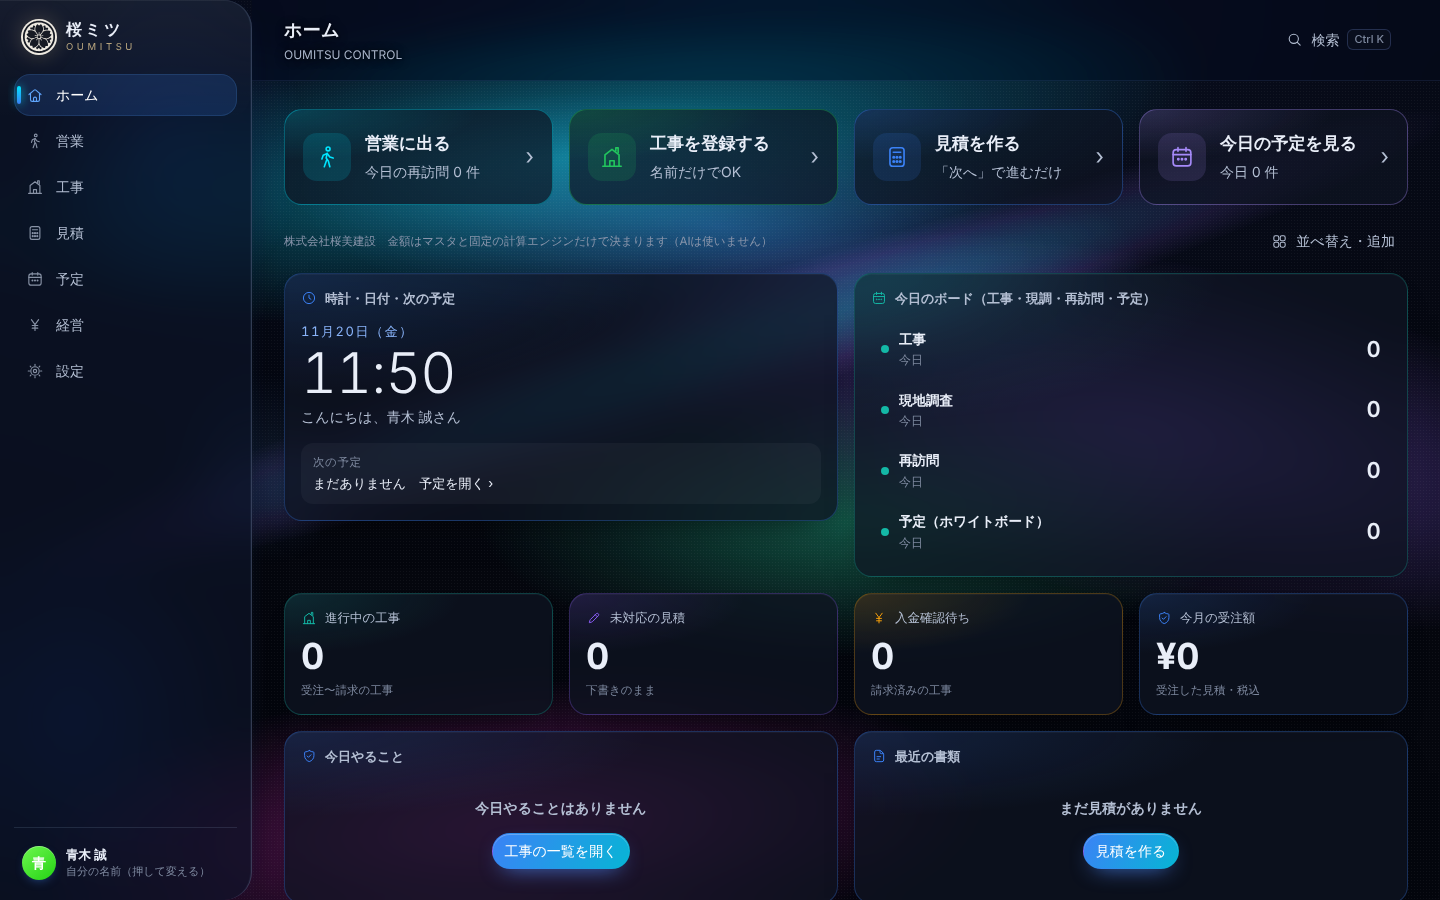
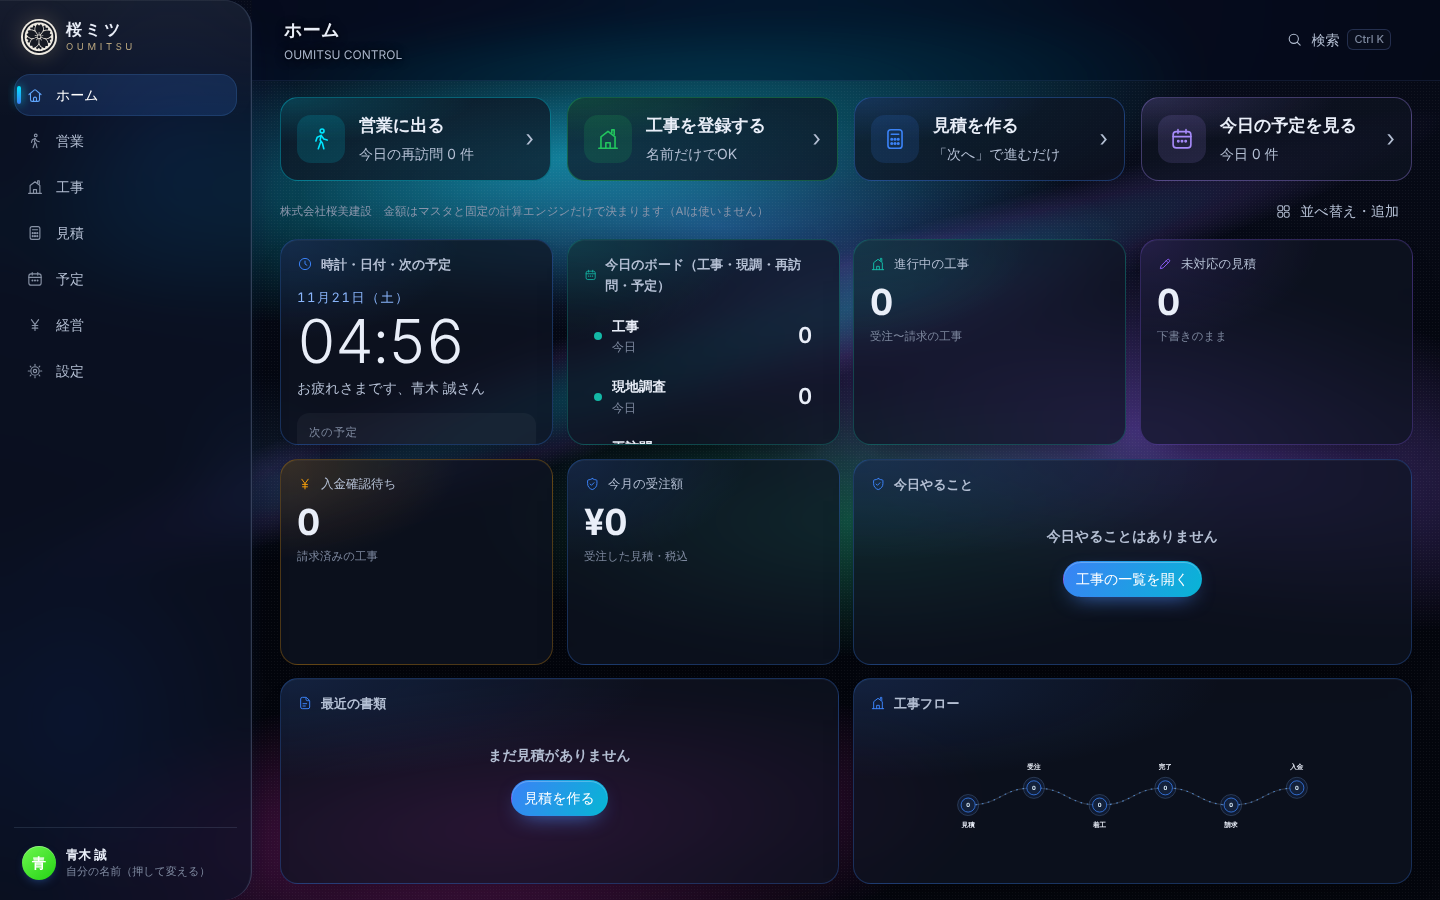
1画面で完結（スマホ）：入りきらない画面はまとまりごとのページに分けて上のタブで切り替え（pager.js）。見積の編集はスマホだけ「金額・チェック」のタブ、見出しの横のボタンは絵だけ
Claude-Session: https://claude.ai/code/session_011YfgaKNg5BLHuBJZ1Hhi4R

diff --git a/oubi/pager.js b/oubi/pager.js
@@ -1,0 +1,80 @@
+/*
+ * スマホで「1画面で完結」：画面に入りきらないときは、まとまりごとにページへ分け、上のタブで切り替える（桜ミツ版）
+ *   OUBI_PAGER(root, scroller, key)
+ *     root     … まとまりが子として並ぶ要素（.view-inner や main）
+ *     scroller … 画面の高さの基準になる要素（#view や window）
+ *     key      … 画面ごとの名前（開いていたページを覚える）
+ *   1つのまとまりだけで画面より高いときは、そのまとまりの中だけ動く（一覧と同じ）。パソコン（幅761px以上）では何もしない。
+ */
+(function (root) {
+  'use strict';
+  var PHONE = 760, mem = {};
+  function visible(e) { return e.nodeType === 1 && !e.hidden && e.getAttribute('aria-hidden') !== 'true' && getComputedStyle(e).display !== 'none' && e.tagName !== 'SCRIPT' && e.tagName !== 'STYLE'; }
+  function label(page, i) {
+    for (var k = 0; k < page.length; k++) { var t0 = label1(page[k]); if (t0) return t0.slice(0, 12); }
+    return 'ページ' + (i + 1);
+  }
+  function label1(e) {
+    var h = e.matches && e.matches('h1, h2, h3') ? e : e.querySelector('h1, h2, h3, .w-title, .panel-h h2, .kpi-label, legend, summary, b, strong');
+    var t = ((h && h.textContent) || '').replace(/\s+/g, ' ').trim();
+    if (!t && e.classList.contains('launch')) t = 'よく使うこと';
+    return t;
+  }
+  function clear(box) {
+    var bar = box.querySelector(':scope > .pg-bar'); if (bar) bar.remove();
+    [].forEach.call(box.children, function (c) { c.classList.remove('pg-off'); c.style.removeProperty('max-height'); c.classList.remove('pg-own'); });
+    box.classList.remove('pg-on');
+  }
+  // 子が1つだけの入れ物は、その中のまとまりで分ける
+  function target(el) {
+    var box = el, n = 0;
+    while (n++ < 4) {
+      var vs = [].filter.call(box.children, function (c) { return visible(c) && !c.classList.contains('pg-bar'); });
+      if (vs.length === 1 && vs[0].children.length >= 2) box = vs[0]; else break;
+    }
+    return box;
+  }
+  root.OUBI_PAGER = function (el, scroller, key) {
+    if (!el) return;
+    var prev = el.querySelectorAll('.pg-on'); [].forEach.call(prev, clear); clear(el);
+    if (root.innerWidth > PHONE) return;
+    var box = target(el);
+    var H = scroller === root ? root.innerHeight : scroller.clientHeight;
+    var cs = scroller === root ? null : getComputedStyle(scroller);
+    var pad = cs ? parseFloat(cs.paddingTop) + parseFloat(cs.paddingBottom) : 0;
+    var above = box.getBoundingClientRect().top - (scroller === root ? 0 : scroller.getBoundingClientRect().top) - (cs ? parseFloat(cs.paddingTop) : 0);
+    var BAR = 56, avail = H - pad - Math.max(0, above) - 14;
+    var total = (scroller === root ? document.scrollingElement.scrollHeight : scroller.scrollHeight);
+    if (total <= H + 2) return;
+    avail -= BAR;
+    var kids = [].filter.call(box.children, visible), pages = [], cur = [], used = 0, gap = parseFloat(getComputedStyle(box).rowGap) || 0;
+    kids.forEach(function (c) {
+      var st = getComputedStyle(c), m = (parseFloat(st.marginTop) || 0) + (parseFloat(st.marginBottom) || 0);
+      var h = c.scrollHeight + m, g = cur.length ? gap : 0;
+      // 残りの高さいっぱいに伸びて、中だけ動くまとまり（一覧など）：残りが十分あれば同じページに入れる
+      if (parseFloat(st.flexGrow) > 0 && h > avail - used - g) {
+        if (cur.length && avail - used - g < 220) { pages.push(cur); cur = []; used = 0; g = 0; }
+        c.classList.add('pg-own'); c.style.maxHeight = Math.max(160, avail - used - g - m) + 'px'; cur.push(c); pages.push(cur); cur = []; used = 0; return;
+      }
+      if (h > avail - used - g) {
+        // 大きいまとまり：見出しなど小さいものが前にあれば一緒に。そのまとまりの中だけ動く
+        if (cur.length && used > avail * 0.4) { pages.push(cur); cur = []; used = 0; g = 0; }
+        if (h > avail - used - g) { c.classList.add('pg-own'); c.style.maxHeight = Math.max(160, avail - used - g - m) + 'px'; cur.push(c); pages.push(cur); cur = []; used = 0; return; }
+      }
+      cur.push(c); used += h + g;
+    });
+    if (cur.length) pages.push(cur);
+    if (pages.length < 2) return;
+    var k = key || location.hash, at = Math.min(mem[k] || 0, pages.length - 1);
+    var bar = document.createElement('nav'); bar.className = 'pg-bar'; bar.setAttribute('aria-label', 'この画面のページ');
+    bar.innerHTML = pages.map(function (p, i) { return '<button type="button" data-pg="' + i + '"' + (i === at ? ' class="on" aria-current="true"' : '') + '>' + (i + 1) + ' ' + label(p, i).replace(/[<&]/g, '') + '</button>'; }).join('');
+    box.insertBefore(bar, box.firstChild); box.classList.add('pg-on');
+    function show(i) {
+      at = i; mem[k] = i;
+      pages.forEach(function (p, j) { p.forEach(function (c) { c.classList.toggle('pg-off', j !== i); }); });
+      [].forEach.call(bar.children, function (b, j) { b.classList.toggle('on', j === i); if (j === i) { b.setAttribute('aria-current', 'true'); if (b.scrollIntoView) b.scrollIntoView({ block: 'nearest', inline: 'center' }); } else b.removeAttribute('aria-current'); });
+    }
+    bar.addEventListener('click', function (e) { var b = e.target.closest('[data-pg]'); if (b) show(Number(b.dataset.pg)); });
+    show(at);
+  };
+})(this);

diff --git a/oubi/tools/build-web.js b/oubi/tools/build-web.js
@@ -16,6 +16,7 @@ cp(path.join(EE, 'js'), path.join(OUT, 'js'));
 ['js/auth.js', 'js/login.js', 'css/login.css'].forEach(f => fs.rmSync(path.join(OUT, f), { force: true }));
 if (!ART) { try { fs.symlinkSync(path.join(EE, 'vendor'), path.join(OUT, 'vendor')); } catch (e) {} }
 fs.copyFileSync(path.join(OB, 'link.js'), path.join(OUT, 'js', 'oubi-link.js'));
+fs.copyFileSync(path.join(OB, 'pager.js'), path.join(OUT, 'js', 'oubi-pager.js'));   // スマホ：入りきらない画面をページに分ける
 fs.copyFileSync(path.join(OB, 'mitsu-bridge.js'), path.join(OUT, 'js', 'oubi-bridge.js'));
 fs.copyFileSync(path.join(OB, 'web.css'), path.join(OUT, 'css', 'oubi-frame.css'));   // 業務管理の枠・スマホの下のボタン
 
@@ -27,7 +28,7 @@ sub('<link rel="stylesheet" href="css/control.css">', '<link rel="stylesheet" hr
 sub('<link rel="stylesheet" href="css/login.css">\n', '');
 sub('<script src="js/auth.js"></script>\n', '');
 sub('<script src="js/login.js"></script>\n', '');
-sub('<script src="js/palette.js"></script>', '<script src="js/palette.js"></script>\n<script src="js/oubi-link.js"></script>\n<script src="js/oubi-bridge.js"></script>');
+sub('<script src="js/palette.js"></script>', '<script src="js/palette.js"></script>\n<script src="js/oubi-pager.js"></script>\n<script src="js/oubi-link.js"></script>\n<script src="js/oubi-bridge.js"></script>');
 const bootA = ix.indexOf('  var started = false;'), bootB = ix.indexOf('</script>', bootA);
 ix = ix.slice(0, bootA) + `  // 桜ミツ版：ログインはない。起動の演出のあいだに業務管理と見積の記録をそろえ、演出が終わったらそのままホーム
   var started = false, ready = false, wantIntro = false;
@@ -54,7 +55,7 @@ rm(/<link rel="preconnect" href="https:\/\/[a-z0-9]+\.supabase\.co"[^>]*>\s*/);
 rm(/<link rel="preload" as="script" href="https:\/\/cdn\.jsdelivr\.net\/npm\/@supabase[^>]*>\s*/);
 rm(/<script src="https:\/\/cdn\.jsdelivr\.net\/npm\/@supabase[^>]*><\/script>\s*/);
 rm(/<script src="config\.js"><\/script>\s*/);
-ob = ob.replace('<script src="supa.js"></script>', '<script src="embed.js"></script>\n<script src="local-db.js"></script>');
+ob = ob.replace('<script src="supa.js"></script>', '<script src="pager.js"></script>\n<script src="embed.js"></script>\n<script src="local-db.js"></script>');
 rm(/<link rel="stylesheet" href="mitsu\.css">\s*/); rm(/<link rel="stylesheet" href="mitsu-host\.css">\s*/);
 ob = ob.replace('<link rel="stylesheet" href="theme-oumitsu.css">', '<link rel="stylesheet" href="theme-oumitsu.css">\n<link rel="stylesheet" href="embed.css">');
 rm(/<script src="mitsu\.js" defer><\/script>\s*/); rm(/<script src="mitsu-bridge\.js" defer><\/script>\s*/);
@@ -62,5 +63,5 @@ rm(/<link rel="manifest"[^>]*>\s*/);
 ob = ob.replace("if('serviceWorker' in navigator&&location.protocol==='https:')navigator.serviceWorker.register('sw.js').catch(()=>{});", '');
 ['@supabase', 'src="config.js"', 'src="supa.js"', 'src="mitsu.js"', 'href="mitsu.css"', 'href="mitsu-host.css"', 'serviceWorker.register'].forEach(k => { if (ob.includes(k)) throw new Error('残っている: ' + k); });
 fs.writeFileSync(path.join(OUT, 'oubi.html'), ob);
-['sales.js', 'features.js', 'health.js', 'theme-oumitsu.css', 'local-db.js', 'embed.js', 'embed.css', 'logo-s.jpg', 'logo.jpg', 'icon-192.png', 'icon-180.png'].forEach(f => fs.copyFileSync(path.join(OB, f), path.join(OUT, f)));
+['pager.js', 'sales.js', 'features.js', 'health.js', 'theme-oumitsu.css', 'local-db.js', 'embed.js', 'embed.css', 'logo-s.jpg', 'logo.jpg', 'icon-192.png', 'icon-180.png'].forEach(f => fs.copyFileSync(path.join(OB, f), path.join(OUT, f)));
 console.log('作成:', OUT, ART ? '（Artifact 用）' : '');

diff --git a/oubi/web.css b/oubi/web.css
@@ -140,6 +140,8 @@ body.ee-link .editor { flex: 1 1 auto; min-height: 0; align-items: stretch; grid
 body.ee-link .editor > .ed-left { min-height: 0; display: flex !important; flex-direction: column; gap: 12px !important; }
 body.ee-link .ed-pane { align-self: flex-start; }
 body.ee-link .ed-pane button { font-size: 14px; padding: 8px 18px; }
+body.ee-link .ed-pane .ed-sum { display: none; }   /* 金額・チェックのタブはスマホだけ（パソコンは右にいつも出ている） */
+@media (max-width: 760px) { body.ee-link .ed-pane .ed-sum { display: inline-flex; } body.ee-link .ed-pane button { padding: 8px 10px; } }
 body.ee-link .editor[data-pane="lines"] #sec-header, body.ee-link .editor[data-pane="header"] #sec-lines { display: none; }
 body.ee-link .editor #sec-header { flex: 1 1 auto; min-height: 0; overflow: auto; }
 body.ee-link .editor #sec-lines { flex: 1 1 auto; min-height: 0; display: flex; flex-direction: column; }
@@ -153,3 +155,30 @@ body.ee-link .editor > aside.summary > #sec-summary { flex: none; }
 body.ee-link .editor > aside.summary > #sec-check { flex: 1 1 auto; min-height: 0; display: flex; flex-direction: column; }
 body.ee-link .editor > aside.summary > #sec-check > .panel-b, body.ee-link .editor > aside.summary > #sec-check > :last-child { flex: 1 1 auto; min-height: 0; overflow: auto; }
 body.ee-link .view-inner > .panel:has(+ .editor) { margin-bottom: 12px !important; }
+
+/* スマホ：入りきらない画面のページ分け（pager.js） */
+.pg-off { display: none !important; }
+.pg-own { overflow: auto !important; flex: none !important; }
+.pg-bar { flex: none !important; display: flex; gap: 6px; overflow-x: auto; scrollbar-width: none; padding: 2px 0 10px; margin: 0; }
+.pg-bar::-webkit-scrollbar { display: none; }
+.pg-bar button { flex: none; height: 36px; padding: 0 14px; border-radius: 999px; font: inherit; font-size: 14px; font-weight: 600; cursor: pointer;
+  color: #dfe6f3; border: 1px solid rgba(186, 230, 253, .16); background: #121a2e; }
+.pg-bar button.on { color: #fff; border-color: transparent; background: linear-gradient(135deg, #2563EB, #0891B2); }
+
+/* スマホ（1画面）：ホームの3段の並びはパソコンだけ（スマホはまとまりごとのページ）、数字のカードは2列、見出しの横のボタンは絵だけ */
+@media (max-width: 760px) {
+  body.ee-link .widgets:not(.editing) { flex: none; grid-auto-rows: auto; }
+  body.ee-link .widgets:not(.editing) .widget { overflow: visible; }
+  body.ee-link .grid.kpis { grid-template-columns: 1fr 1fr !important; gap: 10px !important; }
+  body.ee-link .grid.kpis .kpi-value, body.ee-link .grid.kpis .num { font-size: 20px; }
+  body.ee-link .topbar h1 { font-size: 17px; white-space: nowrap; overflow: hidden; text-overflow: ellipsis; }
+  body.ee-link .topbar > div:first-child { min-width: 0; flex: 1 1 auto; }
+  body.ee-link #actions { flex: none; }
+  body.ee-link #actions .btn { font-size: 0; gap: 0; width: 40px; padding: 0; }
+  body.ee-link #actions .btn svg { width: 18px; height: 18px; }
+  body.ee-link .editor { display: flex !important; flex-direction: column; }
+  body.ee-link .editor:not([data-pane="sum"]) > aside.summary { display: none !important; }
+  body.ee-link .editor[data-pane="sum"] #sec-lines, body.ee-link .editor[data-pane="sum"] #sec-header { display: none; }
+  body.ee-link .editor[data-pane="sum"] > aside.summary { flex: 1 1 auto; overflow: auto; }
+  body.ee-link .editor[data-pane="sum"] > .ed-left { flex: none; }
+}

diff --git a/oubi/mitsu.js b/oubi/mitsu.js
@@ -4155,7 +4155,8 @@
     var html = banner + '<div class="editor" data-pane="' + pane + '">' +
       '<div class="grid ed-left" style="gap:18px">' +
         (EE.link ? '<div class="seg ed-pane" role="tablist" aria-label="見積のどこを見るか"><button type="button" role="tab" data-pane="lines" aria-selected="' + (pane === 'lines') + '" class="' + (pane === 'lines' ? 'on' : '') + '">明細（' + d.lines.length + '行）</button>' +
-          '<button type="button" role="tab" data-pane="header" aria-selected="' + (pane === 'header') + '" class="' + (pane === 'header' ? 'on' : '') + '">宛先・日付・条件</button></div>' : '') +
+          '<button type="button" role="tab" data-pane="header" aria-selected="' + (pane === 'header') + '" class="' + (pane === 'header' ? 'on' : '') + '">宛先・日付・条件</button>' +
+          '<button type="button" role="tab" data-pane="sum" aria-selected="' + (pane === 'sum') + '" class="ed-sum' + (pane === 'sum' ? ' on' : '') + '">金額・チェック</button></div>' : '') +
         /* 基本情報 */
         '<section class="panel" data-st id="sec-header"><div class="panel-h"><h2>基本情報</h2><span class="sub">宛先・日付・条件</span><div class="spacer"></div>' +
           (d.importInfo && d.importInfo.importId ? '<a href="#" class="badge blue" data-act="open-original" title="取り込み元の原本を開く">' + I.file + esc(d.importInfo.fileName || '原本') + '</a>' : '') +
@@ -8030,6 +8031,7 @@
       fresh.scrollTop = 0;
       document.getElementById('actions').onclick = null;
       if (current.mount) current.mount(fresh.firstChild);
+      if (EE.link && root.OUBI_PAGER) setTimeout(function () { if (fresh.isConnected) root.OUBI_PAGER(fresh.firstChild, fresh); }, 420);   // スマホ：入りきらないときはページに分ける
       if (EE.a11y) { EE.a11y.enhance(fresh); EE.a11y.enhance(document.getElementById('actions')); }
       // 画面を切り替えた後にフォーカスが行き場を失ったら、画面の見出しへ（読み上げで移動が分かる）
       if (animate !== false && (!document.activeElement || document.activeElement === document.body)) {

diff --git a/easy-estimate/js/views/editor.js b/easy-estimate/js/views/editor.js
@@ -107,7 +107,8 @@
     var html = banner + '<div class="editor" data-pane="' + pane + '">' +
       '<div class="grid ed-left" style="gap:18px">' +
         (EE.link ? '<div class="seg ed-pane" role="tablist" aria-label="見積のどこを見るか"><button type="button" role="tab" data-pane="lines" aria-selected="' + (pane === 'lines') + '" class="' + (pane === 'lines' ? 'on' : '') + '">明細（' + d.lines.length + '行）</button>' +
-          '<button type="button" role="tab" data-pane="header" aria-selected="' + (pane === 'header') + '" class="' + (pane === 'header' ? 'on' : '') + '">宛先・日付・条件</button></div>' : '') +
+          '<button type="button" role="tab" data-pane="header" aria-selected="' + (pane === 'header') + '" class="' + (pane === 'header' ? 'on' : '') + '">宛先・日付・条件</button>' +
+          '<button type="button" role="tab" data-pane="sum" aria-selected="' + (pane === 'sum') + '" class="ed-sum' + (pane === 'sum' ? ' on' : '') + '">金額・チェック</button></div>' : '') +
         /* 基本情報 */
         '<section class="panel" data-st id="sec-header"><div class="panel-h"><h2>基本情報</h2><span class="sub">宛先・日付・条件</span><div class="spacer"></div>' +
           (d.importInfo && d.importInfo.importId ? '<a href="#" class="badge blue" data-act="open-original" title="取り込み元の原本を開く">' + I.file + esc(d.importInfo.fileName || '原本') + '</a>' : '') +

diff --git a/oubi/embed.css b/oubi/embed.css
@@ -148,3 +148,15 @@ body[data-obtab="dash"][data-dpart="nums"] main > :not(.grp):not(.cols2) { displ
 body[data-obtab="dash"][data-dpart="nums"] main > .grp { margin: 0 !important; }
 body[data-obtab="dash"][data-dpart="nums"] main > .cols2 { grid-column: 1 / -1; min-height: 0; display: grid; grid-template-columns: 1fr 1fr; gap: 16px; }
 body[data-obtab="dash"][data-dpart="nums"] main > .cols2 > * { min-height: 0; overflow: auto; margin: 0 !important; }
+
+/* スマホ：入りきらない画面のページ分け（pager.js） */
+.pg-off { display: none !important; }
+.pg-own { overflow: auto !important; flex: none !important; }
+.pg-bar { flex: none !important; display: flex; gap: 6px; overflow-x: auto; scrollbar-width: none; padding: 2px 0 10px; margin: 0; }
+.pg-bar::-webkit-scrollbar { display: none; }
+.pg-bar button { flex: none; height: 36px; padding: 0 14px; border-radius: 999px; font: inherit; font-size: 14px; font-weight: 600; cursor: pointer;
+  color: #c9d3e6; border: 1px solid rgba(186, 230, 253, .16); background: rgba(12, 18, 34, .6); }
+.pg-bar button.on { color: #fff; border-color: transparent; background: linear-gradient(135deg, #2563EB, #0891B2); }
+.pg-bar button { background: #121a2e; color: #dfe6f3; }
+body.sl-sun .pg-bar button { background: #FFFFFF; color: #0B1324; border-color: #6B7FA6; }
+body.sl-sun .pg-bar button.on { background: #1F5BC6; color: #fff; border-color: transparent; }

diff --git a/oubi/tests/web-improve.js b/oubi/tests/web-improve.js
@@ -88,6 +88,7 @@ const OUT = path.join(__dirname, '..', 'screenshots') + '/';
   await p.waitForTimeout(1500);
   const did = await p.evaluate(cid => EE.S.documents.find(d => d.projectId === cid && d.patternLabel === '松').id, cid);
   await go(p, '#/edit/' + did, 2000);
+  await p.click('.ed-pane [data-pane="header"]'); await p.waitForTimeout(300);   // 比較表は「宛先・日付・条件」のタブの「この工事の見積」の横
   ok(await p.isVisible('[data-act="cmp-sheet"]'), '見積の画面に「お客様向けの比較表」（同じ工事に別案があるとき）');
   await p.click('[data-act="cmp-sheet"]'); await p.waitForTimeout(800);
   ok(await p.evaluate(() => { const t = document.querySelector('.overlay .cmp-sheet'); return !!t && /松/.test(t.textContent) && /竹/.test(t.textContent) && /お支払い総額/.test(t.textContent); }), '比較表に松・竹の案と金額が並ぶ');

diff --git a/oubi/embed.js b/oubi/embed.js
@@ -38,7 +38,12 @@
     };
     window.toast.undo = null;
   });
+  // スマホ：入りきらない画面は、まとまりごとのページに分ける（pager.js）
+  var pgT = null;
+  function pageIt() { clearTimeout(pgT); pgT = setTimeout(function () { if (window.OUBI_PAGER) window.OUBI_PAGER(document.querySelector('main'), window, document.body.getAttribute('data-obtab') + ':' + (document.body.getAttribute('data-dpart') || '')); }, 120); }
+  window.addEventListener('resize', pageIt);
   window.SUPA_AFTER_RENDER = function (tab) {
+    pageIt();
     document.body.setAttribute('data-obtab', tab);   // 業務管理のホームは描かない（桜ミツのホームに替わる）
     try { if (P && P.OUBI_LINK) P.OUBI_LINK.onTab(tab, window.OUBI && window.OUBI.cur ? window.OUBI.cur() : { tab: tab }); } catch (e) {}
   };

diff --git a/easy-estimate/js/app.js b/easy-estimate/js/app.js
@@ -226,6 +226,7 @@
       fresh.scrollTop = 0;
       document.getElementById('actions').onclick = null;
       if (current.mount) current.mount(fresh.firstChild);
+      if (EE.link && root.OUBI_PAGER) setTimeout(function () { if (fresh.isConnected) root.OUBI_PAGER(fresh.firstChild, fresh); }, 420);   // スマホ：入りきらないときはページに分ける
       if (EE.a11y) { EE.a11y.enhance(fresh); EE.a11y.enhance(document.getElementById('actions')); }
       // 画面を切り替えた後にフォーカスが行き場を失ったら、画面の見出しへ（読み上げで移動が分かる）
       if (animate !== false && (!document.activeElement || document.activeElement === document.body)) {

diff --git a/oubi/link.js b/oubi/link.js
@@ -46,6 +46,9 @@
     });
   }
 
+  // スマホ：画面の大きさが変わったら、ページ分けをやり直す
+  var rzT = null;
+  root.addEventListener('resize', function () { clearTimeout(rzT); rzT = setTimeout(function () { var v = document.getElementById('view'); if (root.OUBI_PAGER && v && v.firstChild && !document.body.classList.contains('ob-on')) root.OUBI_PAGER(v.firstChild, v); }, 200); });
   root.OUBI_LINK = {
     /** app.js の parse() から：#/o/<画面>/... */
     route: function (parts) {
